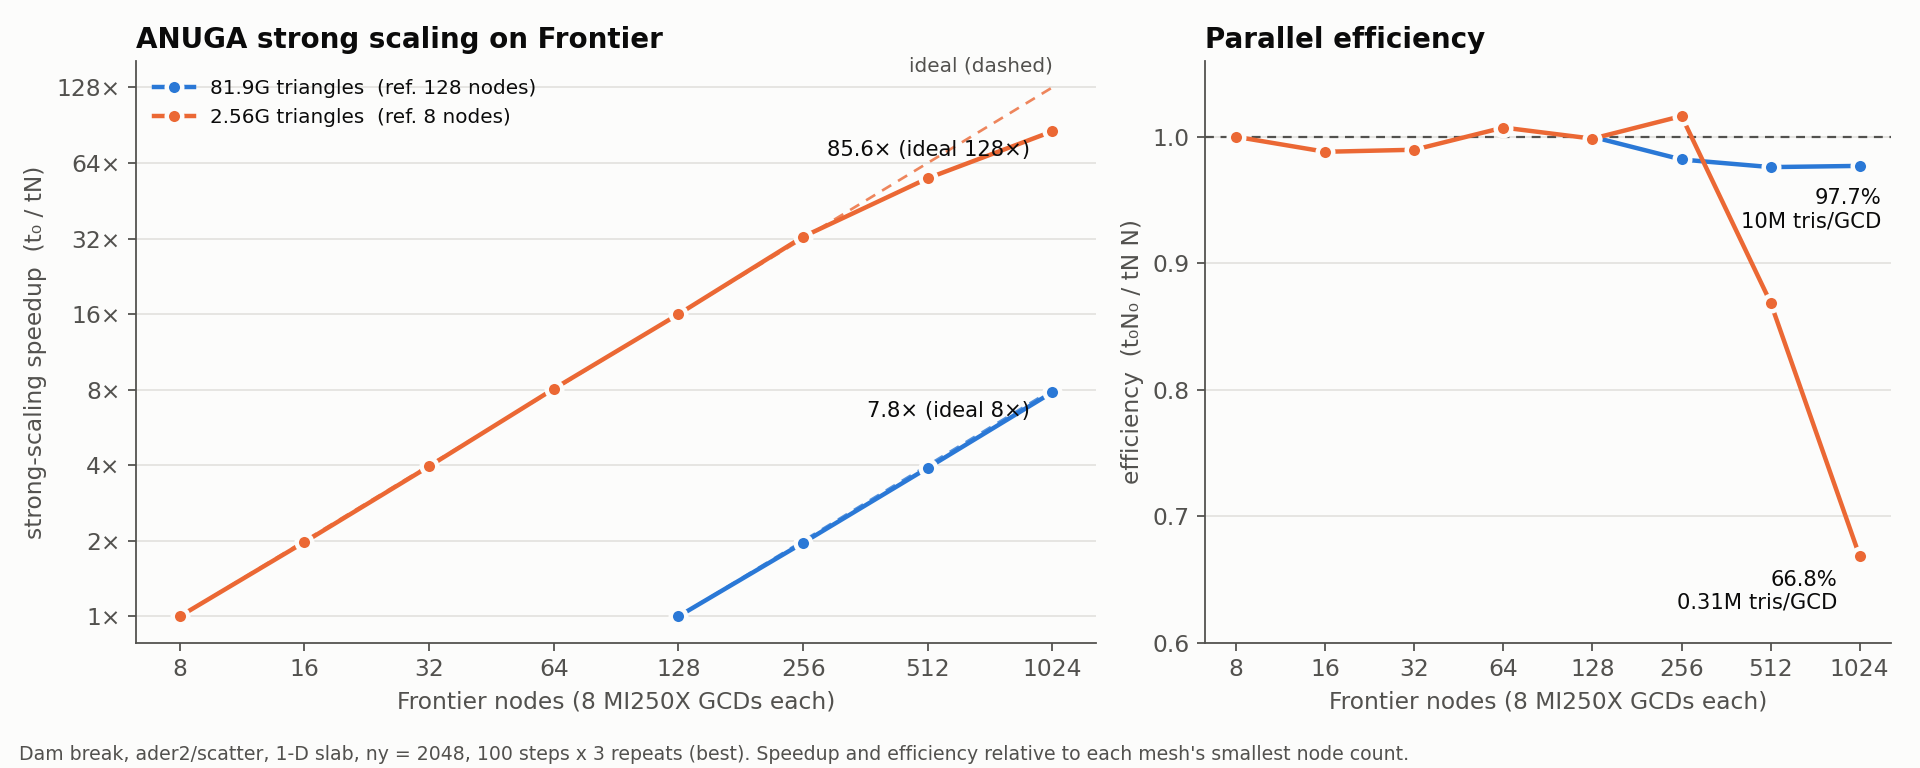
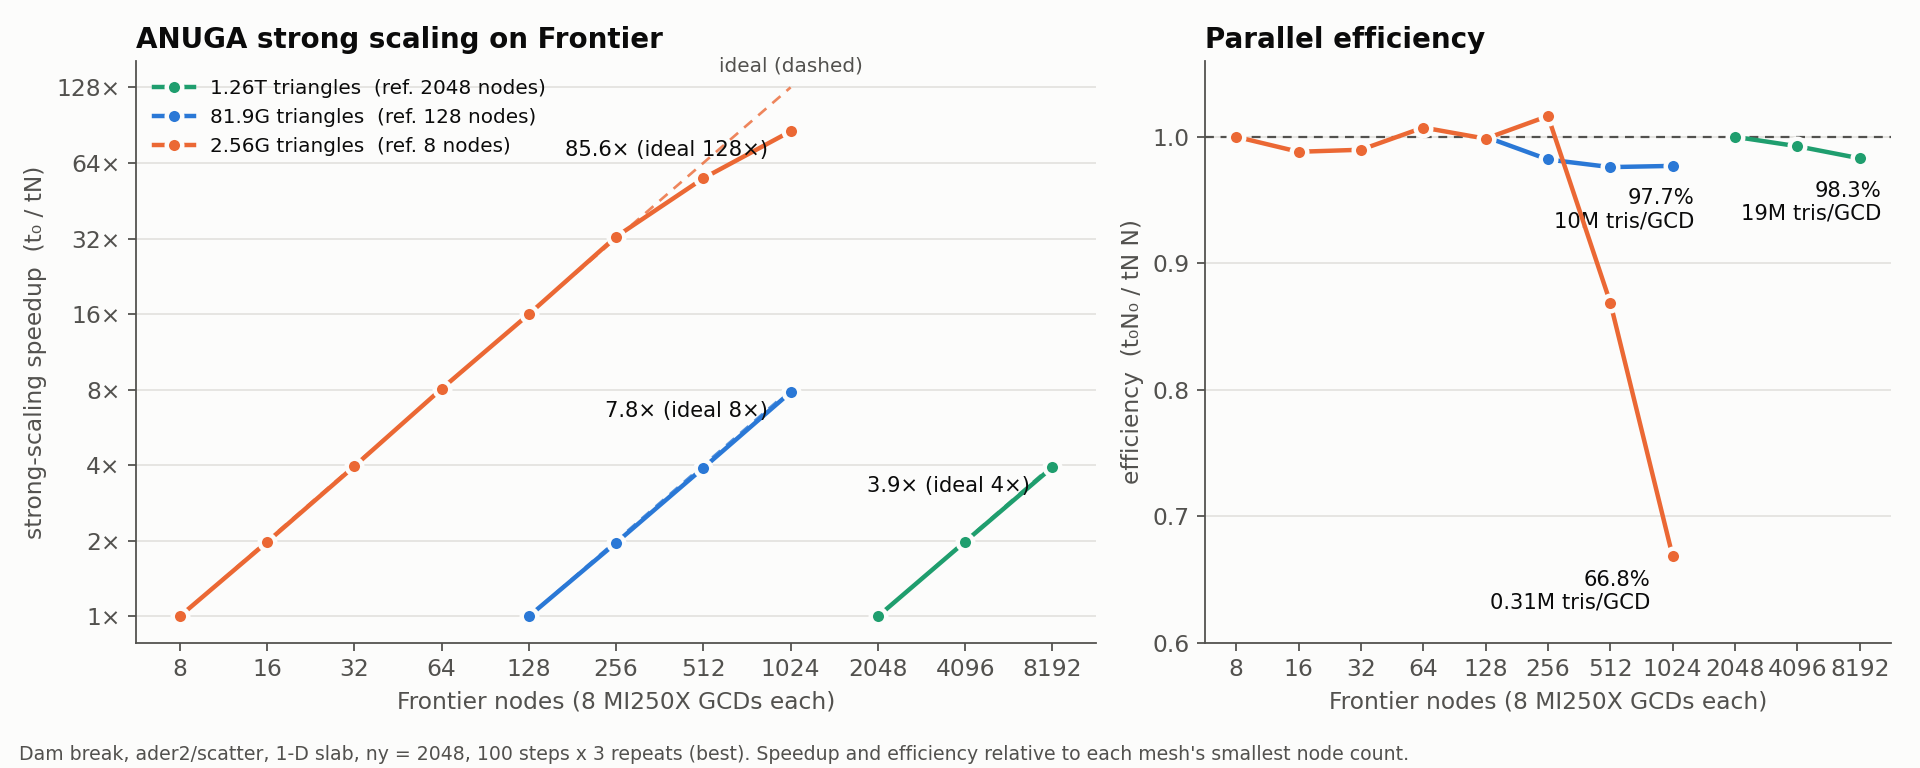
Frontier full-machine strong scaling to 8192 nodes; throughput plot
The 1.263T-triangle strong series ran cleanly at 2048/4096/8192 nodes:
218.1 -> 109.9 -> 55.5 ms/step, 3.93x of 4x (98.3%) at 65536 GCDs, peak
22.8T triangle-steps/s, ~440 node-h. plot_strong_frontier.py and
plot_weak_frontier.py now also read results/frontier_full/; the new
plot_throughput_frontier.py puts every weak and strong run on one aggregate
throughput axis against the 1-node-weak x N ideal. The 9408-node job
(strong + 3.01T weak) is still queued.

diff --git a/standalone/logbook/plot_throughput_frontier.py b/standalone/logbook/plot_throughput_frontier.py
@@ -1,0 +1,73 @@
+import csv, glob, os, sys
+import matplotlib; matplotlib.use("Agg")
+import matplotlib.pyplot as plt
+from matplotlib.ticker import FixedLocator, FuncFormatter, NullLocator
+
+# Aggregate throughput on Frontier, every weak and strong run on one log-log axis.
+# Ideal = 1-node weak throughput x nodes.
+# Usage: python3 plot_throughput_frontier.py out.png
+R = os.path.join(os.path.dirname(os.path.abspath(__file__)), "..", "benchmarks", "results")
+files = (glob.glob(R + "/frontier_n*/scaling_frontier.csv") +
+         glob.glob(R + "/frontier_strong/n*/*/scaling_frontier.csv") +
+         glob.glob(R + "/frontier_full/n*/*/scaling_frontier.csv"))
+series = {}                                   # (study, tris/GCD-or-mesh) -> {nodes: [cell-steps/s]}
+for f in sorted(files):
+    for r in csv.DictReader(open(f)):
+        if r["status"] != "ok":
+            continue
+        key = ("weak", int(r["tris_per_rank"])) if r["study"] == "weak" else ("strong", int(r["triangles"]))
+        series.setdefault(key, {}).setdefault(int(r["nodes"]), []).append(
+            float(r["mcellsteps_per_s"]) * 1e6)
+best = {k: {n: max(v) for n, v in d.items()} for k, d in series.items()}
+
+BLUE, ORANGE, GREEN, INKC = "#2a78d6", "#eb6834", "#1f9e6e", "#0b0b0b"
+INK, INK2, GRID, SURF = "#0b0b0b", "#52514e", "#e4e3df", "#fcfcfb"
+plt.rcParams.update({"font.size": 10.5, "axes.edgecolor": INK2, "axes.labelcolor": INK2,
+                     "xtick.color": INK2, "ytick.color": INK2, "font.family": "DejaVu Sans"})
+fig, ax = plt.subplots(figsize=(9, 5.4), facecolor=SURF)
+ax.set_facecolor(SURF)
+allnodes = sorted({n for d in best.values() for n in d})
+ax.set_xscale("log", base=2); ax.set_yscale("log", base=10)
+ax.xaxis.set_major_locator(FixedLocator(allnodes))
+ax.xaxis.set_major_formatter(FuncFormatter(lambda v, _: "%d" % v))
+ax.xaxis.set_minor_locator(NullLocator())
+ax.grid(color=GRID, lw=0.8); ax.set_axisbelow(True)
+for s in ("top", "right"): ax.spines[s].set_visible(False)
+
+
+def fmt(v):
+    for u, s in ((1e15, "P"), (1e12, "T"), (1e9, "G"), (1e6, "M")):
+        if v >= u:
+            return "%.3g%s" % (v / u, s)
+    return "%.3g" % v
+
+
+ax.yaxis.set_major_formatter(FuncFormatter(lambda v, _: fmt(v)))
+weak = [k for k in best if k[0] == "weak"]
+strong = sorted((k for k in best if k[0] == "strong"), key=lambda k: -k[1])
+w = best[weak[0]]
+base = w[min(w)] / min(w)                     # per-node throughput at the smallest weak run
+ax.plot([allnodes[0], allnodes[-1]], [base * allnodes[0], base * allnodes[-1]],
+        color=INK2, lw=1, ls=(0, (4, 3)), label="ideal (1-node weak × N)")
+ns = sorted(w)
+ax.plot(ns, [w[n] for n in ns], color=INKC, lw=2, marker="s", ms=6, mec=SURF, mew=1.5, zorder=3,
+        label="weak, %.0fM tris/GCD" % (weak[0][1] / 1e6))
+for k, c in zip(strong, (GREEN, BLUE, ORANGE)):
+    d = best[k]; ns = sorted(d)
+    lab = ("%.3gT" % (k[1] / 1e12)) if k[1] >= 1e12 else ("%.3gG" % (k[1] / 1e9))
+    ax.plot(ns, [d[n] for n in ns], color=c, lw=2, marker="o", ms=7, mec=SURF, mew=2, zorder=4,
+            label="strong, %s triangles" % lab)
+top = max((d[n], n) for d in best.values() for n in d)
+ax.annotate("%s triangle-steps/s\n%d nodes, %d GCDs" % (fmt(top[0]), top[1], 8 * top[1]), (top[1], top[0]),
+            xytext=(-16, 2), textcoords="offset points", ha="right", va="bottom", color=INK, fontsize=9.5)
+ax.set_xlabel("Frontier nodes (8 MI250X GCDs each)")
+ax.set_ylabel("triangle-steps per second")
+ax.set_title("ANUGA aggregate throughput on Frontier", loc="left", color=INK,
+             fontsize=12.5, fontweight="bold")
+ax.legend(frameon=False, loc="upper left", fontsize=9, labelcolor=INK)
+fig.text(0.01, 0.01, "Dam break, ader2/scatter, 1-D slab, ny = 2048, 100 steps x 3 repeats (best). "
+         "Strong series sit below ideal only by their efficiency loss.", color=INK2, fontsize=8.5)
+fig.tight_layout(rect=(0, 0.04, 1, 1))
+out = sys.argv[1]
+fig.savefig(out, dpi=160, facecolor=SURF)
+print(out, fmt(top[0]), top[1])

diff --git a/standalone/logbook/plot_strong_frontier.py b/standalone/logbook/plot_strong_frontier.py
@@ -4,11 +4,13 @@ import matplotlib.pyplot as plt
 from matplotlib.ticker import FixedLocator, FuncFormatter, NullLocator
 
 # Strong scaling on Frontier: reads every
-# benchmarks/results/frontier_strong/n*/{large,small}/scaling_frontier.csv.
+# benchmarks/results/frontier_strong/n*/{large,small}/scaling_frontier.csv and the
+# full-machine series in benchmarks/results/frontier_full/n*/strong/.
 # Usage: python3 plot_strong_frontier.py out.png
 R = os.path.join(os.path.dirname(os.path.abspath(__file__)), "..", "benchmarks", "results")
 series = {}                                   # tris -> {nodes: [ms, ...]}
-for f in sorted(glob.glob(R + "/frontier_strong/n*/*/scaling_frontier.csv")):
+for f in sorted(glob.glob(R + "/frontier_strong/n*/*/scaling_frontier.csv") +
+                glob.glob(R + "/frontier_full/n*/strong/scaling_frontier.csv")):
     for r in csv.DictReader(open(f)):
         if r["study"] == "strong" and r["status"] == "ok":
             series.setdefault(int(r["triangles"]), {}).setdefault(int(r["nodes"]), []).append(
@@ -16,9 +18,9 @@ for f in sorted(glob.glob(R + "/frontier_strong/n*/*/scaling_frontier.csv")):
 mean = {t: {n: sum(v) / len(v) for n, v in d.items()} for t, d in series.items()}
 order = sorted(mean, reverse=True)            # largest mesh first = series 1
 
-BLUE, ORANGE = "#2a78d6", "#eb6834"
+BLUE, ORANGE, GREEN = "#2a78d6", "#eb6834", "#1f9e6e"
 INK, INK2, GRID, SURF = "#0b0b0b", "#52514e", "#e4e3df", "#fcfcfb"
-COL = dict(zip(order, (BLUE, ORANGE)))
+COL = dict(zip(order, (GREEN, BLUE, ORANGE)))
 plt.rcParams.update({"font.size": 10.5, "axes.edgecolor": INK2, "axes.labelcolor": INK2,
                      "xtick.color": INK2, "ytick.color": INK2, "font.family": "DejaVu Sans"})
 fig, (a, b) = plt.subplots(1, 2, figsize=(12, 4.8), gridspec_kw={"width_ratios": [1.4, 1]},
@@ -35,7 +37,7 @@ for ax in (a, b):
 
 
 def label(t):
-    return "%.3gG triangles" % (t / 1e9)
+    return "%.3gT triangles" % (t / 1e12) if t >= 1e12 else "%.3gG triangles" % (t / 1e9)
 
 
 # (a) speedup relative to each mesh's smallest node count; ideal = N / N0
@@ -54,8 +56,9 @@ for t in order:
     a.annotate("%.1f× (ideal %d×)" % (sp[-1], ns[-1] // n0), (ns[-1], sp[-1]),
                xytext=(-10, -4), textcoords="offset points", ha="right", va="top",
                color=INK, fontsize=9.5)
-a.text(allnodes[-1], allnodes[-1] / allnodes[0] * 1.12, "ideal (dashed)", color=INK2,
-       ha="right", va="bottom", fontsize=9)
+tl = max(order, key=lambda t: max(mean[t]) / min(mean[t]))   # longest ideal line
+a.text(max(mean[tl]), max(mean[tl]) / min(mean[tl]) * 1.12, "ideal (dashed)", color=INK2,
+       ha="center", va="bottom", fontsize=9)
 a.set_ylabel("strong-scaling speedup  (t₀ / tN)")
 a.legend(frameon=False, loc="upper left", fontsize=9, labelcolor=INK)
 a.set_title("ANUGA strong scaling on Frontier", loc="left", color=INK,
@@ -68,7 +71,7 @@ for t in order:
     eff = [t0 * n0 / (mean[t][n] * n) for n in ns]
     b.plot(ns, eff, color=COL[t], lw=2, marker="o", ms=7, mec=SURF, mew=2, zorder=3)
     b.annotate("%.1f%%\n%.2gM tris/GCD" % (100 * eff[-1], t / (8 * ns[-1]) / 1e6), (ns[-1], eff[-1]),
-               xytext=(10, -10) if t == order[0] else (-10, -6), textcoords="offset points",
+               xytext=(-10, -6) if t == order[-1] else (10, -10), textcoords="offset points",
                ha="right", va="top", color=INK, fontsize=9.5)
 b.set_ylim(0.6, 1.06); b.set_ylabel("efficiency  (t₀N₀ / tN N)")
 b.set_title("Parallel efficiency", loc="left", color=INK, fontsize=12.5, fontweight="bold")

diff --git a/standalone/logbook/plot_weak_frontier.py b/standalone/logbook/plot_weak_frontier.py
@@ -5,7 +5,8 @@ from matplotlib.ticker import FixedLocator, FuncFormatter
 
 R = os.path.join(os.path.dirname(os.path.abspath(__file__)), "..", "benchmarks", "results")
 rows = []
-for f in sorted(glob.glob(R + "/frontier_n*/scaling_frontier.csv")):
+for f in sorted(glob.glob(R + "/frontier_n*/scaling_frontier.csv") +
+                glob.glob(R + "/frontier_full/n*/weak/scaling_frontier.csv")):
     for r in csv.DictReader(open(f)):
         if r["study"] == "weak" and r["status"] == "ok":
             rows.append((int(r["nodes"]), float(r["ms_per_step"]), float(r["halo_ms"]),

diff --git a/standalone/logbook/LOGBOOK.md b/standalone/logbook/LOGBOOK.md
@@ -156,26 +156,31 @@ Efficiency = (t_ref · N_ref) / (t_N · N).
   `benchmarks/results/frontier_strong/n*/*/scaling_frontier.csv`). Current renders:
   `logbook/weak_frontier.png`, `logbook/strong_frontier.png`.
 
-### In flight — full-machine series (submitted 2026-10-06 19:09 EDT)
+### 2026-10-06 — full-machine strong scaling (jobs 5629157–5629159)
 
 Strong scaling on 1.263T triangles (nx = 154140672, ny = 2048), reference 2048 nodes.
-nx divides evenly across 16384, 32768, 65536 and 75264 ranks. Plus a weak point
-(40M/GCD, 3.01T triangles) in the 9408-node job.
+All three jobs COMPLETED with exit 0 and status `ok`: 0 NaNs, volume drift <= 2.1e-16.
+The 2048- and 4096-node jobs started at 19:46, ahead of the 2026-10-07 estimate.
 
-| script | nodes | tris/GCD | GiB/GCD | expected ms/step | est. node-h |
-|--------|-------|----------|---------|------------------|-------------|
-| `full_n2048.sl` (5629157) | 2048 | 77.1M | 36.8 | ~216 | ~85 |
-| `full_n4096.sl` (5629158) | 4096 | 38.5M | 18.4 | ~110 | ~140 |
-| `full_n8192.sl` (5629159) | 8192 | 19.3M | 9.2  | ~56  | ~270–410 |
-| `full_n9408.sl` (5629160) | 9408 | 16.8M | 8.0  | ~49  | ~470–780 (+weak ~500) |
-| `full_n9216.sl` (not submitted) | 9216 | 17.1M | 8.2  | fallback if 9408 cannot be scheduled | |
+| nodes | ranks | tris/GCD | GiB/GCD | ms/step | halo ms | dt ms | speedup | eff. | elapsed | node-h |
+|-------|-------|----------|---------|---------|---------|-------|---------|------|---------|--------|
+| 2048 | 16384 | 77.1M | 35.0 | 218.13 | 2.04 | 25.3 | 1.00x | — | 2:16 | 77 |
+| 4096 | 32768 | 38.5M | 17.5 | 109.88 | 1.38 | 14.8 | 1.99x | 99.3% | 1:30 | 102 |
+| 8192 | 65536 | 19.3M | 8.8  | 55.47  | 0.70 | 8.1  | 3.93x | 98.3% | 1:55 | 262 |
 
-Scripts in `benchmarks/results/frontier_full/jobs/`; submit from `standalone/`.
-`sbatch --test-only` accepted all five. At the time it estimated that the ≥8192-node jobs could
-start at a 21:01 window (2026-10-06), and 2048/4096 the next afternoon.
-All four were submitted together, to catch the 21:01 window for large jobs. Results land in
-`benchmarks/results/frontier_full/n*/{strong,weak}/scaling_frontier.csv`. Collect with:
-`sacct -j 5629157,5629158,5629159,5629160 -X -o JobID,JobName%12,State,Elapsed,NNodes`.
+- Peak aggregate throughput: 22.8T triangle-steps/s on 8192 nodes (65536 GCDs).
+- Per-GCD rate lines up with the smaller meshes: 77M tris/GCD runs at 218 ms, against
+  224.8 ms for 80M/GCD on the 81.9G mesh.
+- The batch cost about 440 node-h, well under the ~495–635 estimated.
+- Still queued: `full_n9408.sl` (5629160; strong + weak 3.01T at 40M/GCD). On
+  2026-10-06 20:16 Slurm estimated a 20:54 start. `full_n9216.sl` was never
+  submitted and is now only a fallback.
+- Scripts are in `benchmarks/results/frontier_full/jobs/`. Results are in
+  `benchmarks/results/frontier_full/n*/{strong,weak}/scaling_frontier.csv`.
+- Plots: `plot_strong_frontier.py` and `plot_weak_frontier.py` now also read
+  `frontier_full/`. The new `plot_throughput_frontier.py out.png` draws every weak and strong
+  run as aggregate triangle-steps/s against the 1-node-weak × N ideal.
+  Renders: `logbook/strong_frontier.png` and `logbook/throughput_frontier.png`.
 
 ### Caveats for the paper
 
